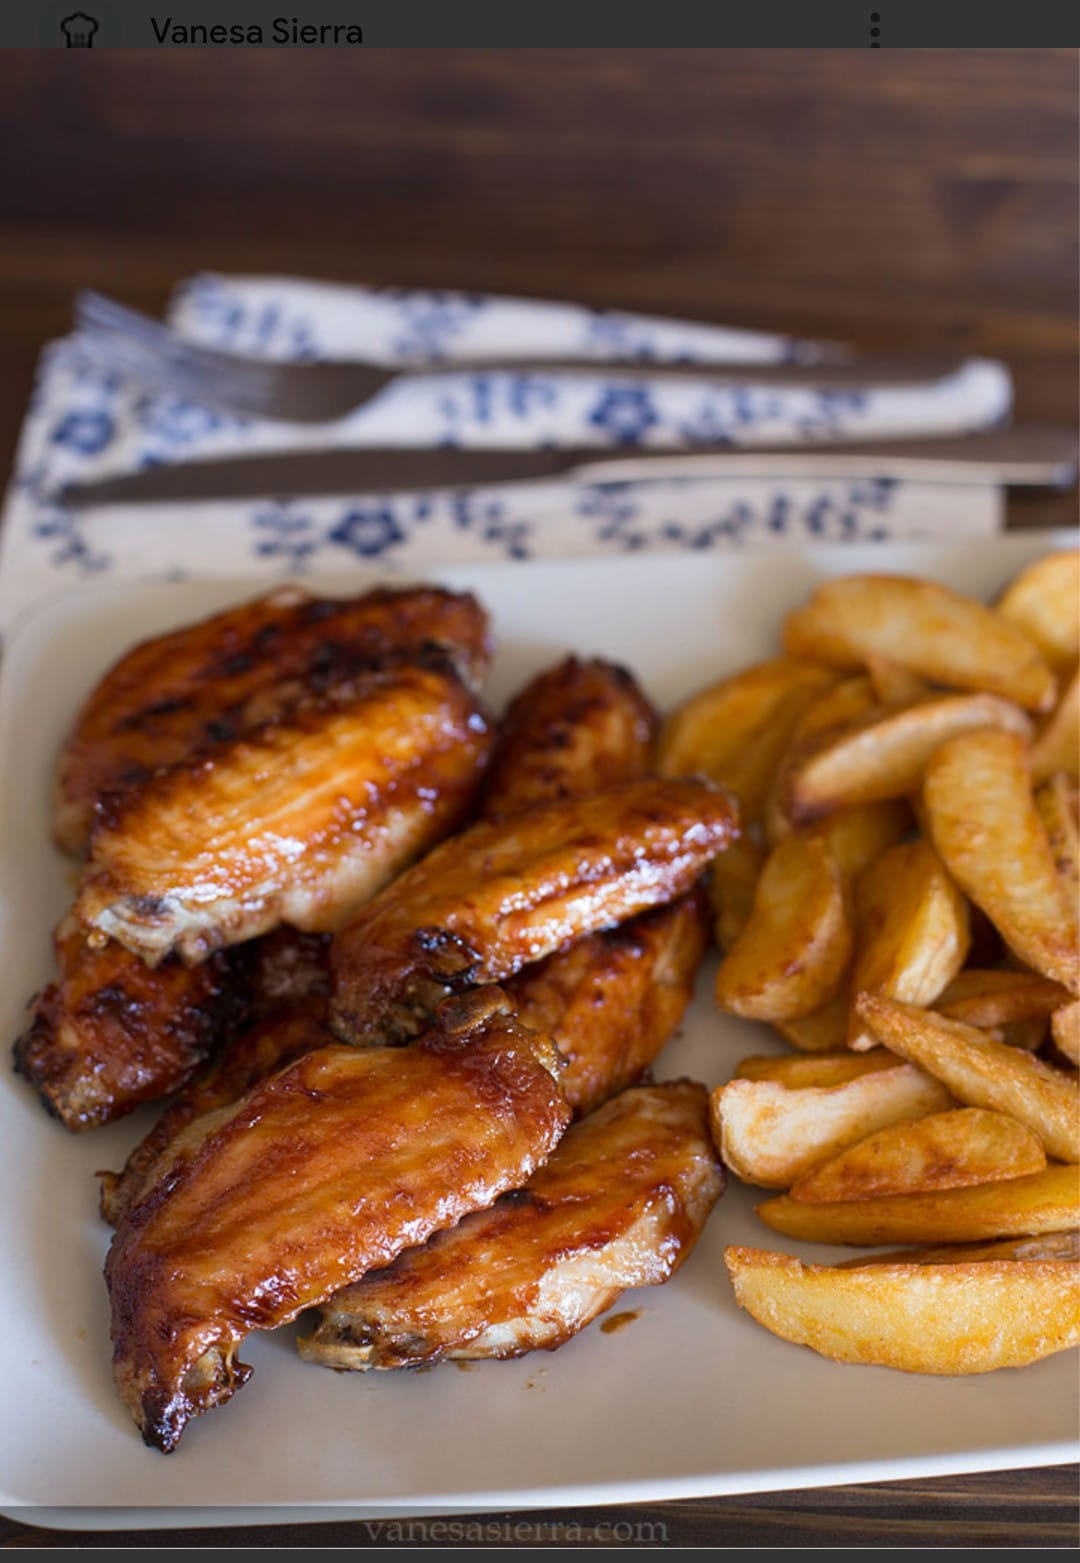
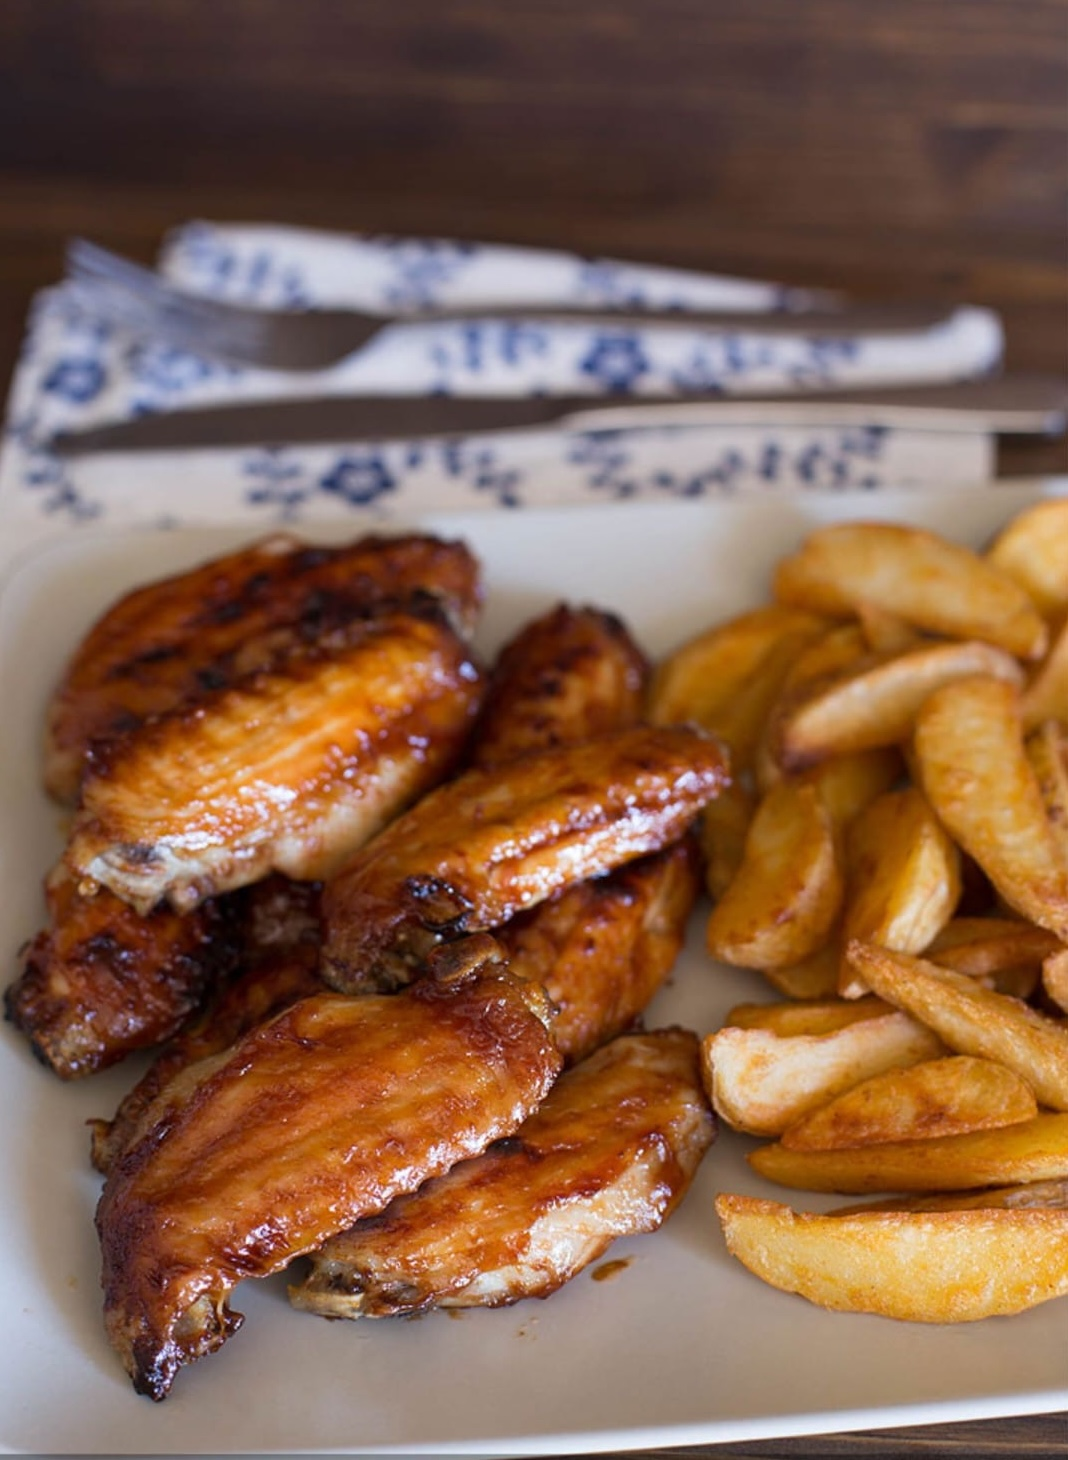
Aggiunto menú reyes

diff --git a/script.js b/script.js
@@ -2,94 +2,91 @@
 const newDishesData = {
   es: {
     title: "Nuevos platos 😋",
-    subtitle: "Descubre nuestras últimas creaciones, elaboradas con cariño cada día.",
-    badge: "Nuevo",
+    subtitle: "Descubre nuestras últimas creaciones, elaboradas con ingredientes frescos y mucho cariño.",
     dishes: [
       {
         img: "img/nuevo_plato_1.jpeg",
         name: "Alitas en barbacoa de pollo con papas fritas 😋",
-        desc: "Alitas de pollo crujientes con salsa barbacoa casera y papas fritas."
+        desc: "Alitas de pollo marinadas en salsa barbacoa, acompañadas de papas fritas crujientes."
       },
       {
         img: "img/nuevo_plato_2.jpeg",
         name: "Costilla de cerdo en barbacoa con papas bravas 😋",
-        desc: "Costilla de cerdo a la barbacoa acompañada de papas bravas caseras."
+        desc: "Costillas de cerdo a baja cocción con salsa barbacoa y papas bravas."
       },
       {
         img: "img/nuevo_plato_3.jpeg",
         name: "Codillo de cerdo con papas fritas 😋",
-        desc: "Codillo de cerdo tierno y jugoso con crujientes papas fritas."
+        desc: "Codillo de cerdo asado, servido con papas fritas."
       },
       {
         img: "img/nuevo_plato_4.jpeg",
         name: "Garbanzas con chorizo 😋",
-        desc: "Garbanzas guisadas a fuego lento con chorizo y sabores tradicionales."
+        desc: "Garbanzos guisados al estilo canario con chorizo."
       },
       {
         img: "img/nuevo_plato_5.jpeg",
         name: "Albóndigas en salsa de tomate con papas fritas 😋",
-        desc: "Albóndigas caseras en salsa de tomate con papas fritas."
+        desc: "Albóndigas caseras en salsa de tomate acompañadas de papas fritas."
       }
     ]
   },
 
   en: {
     title: "New dishes 😋",
-    subtitle: "Discover our latest creations, freshly prepared every day.",
-    badge: "New",
+    subtitle: "Discover our latest creations, prepared with fresh ingredients and lots of care.",
     dishes: [
       {
         img: "img/nuevo_plato_1.jpeg",
-        name: "BBQ chicken wings with French fries 😋",
-        desc: "Crispy chicken wings with homemade BBQ sauce and French fries."
+        name: "BBQ chicken wings with french fries 😋",
+        desc: "Marinated chicken wings in BBQ sauce, served with crispy french fries."
       },
       {
         img: "img/nuevo_plato_2.jpeg",
         name: "BBQ pork ribs with patatas bravas 😋",
-        desc: "Slow-cooked pork ribs in BBQ sauce served with patatas bravas."
+        desc: "Slow-cooked pork ribs with BBQ sauce and spicy patatas bravas."
       },
       {
         img: "img/nuevo_plato_3.jpeg",
-        name: "Pork knuckle with French fries 😋",
-        desc: "Tender pork knuckle served with crispy French fries."
+        name: "Pork knuckle with french fries 😋",
+        desc: "Roasted pork knuckle served with french fries."
       },
       {
         img: "img/nuevo_plato_4.jpeg",
         name: "Chickpeas with chorizo 😋",
-        desc: "Slow-cooked chickpeas with chorizo and traditional spices."
+        desc: "Canarian-style stewed chickpeas with chorizo."
       },
       {
         img: "img/nuevo_plato_5.jpeg",
-        name: "Meatballs in tomato sauce with French fries 😋",
-        desc: "Homemade meatballs in tomato sauce with French fries."
+        name: "Meatballs in tomato sauce with french fries 😋",
+        desc: "Homemade meatballs in tomato sauce with french fries."
       }
     ]
   },
 
   de: {
     title: "Neue Gerichte 😋",
-    subtitle: "Entdeckt unsere neuesten Kreationen, täglich frisch zubereitet.",
-    badge: "Neu",
+    subtitle: "Entdeckt unsere neuesten Kreationen, täglich frisch und mit viel Liebe zubereitet.",
     dishes: [
       {
         img: "img/nuevo_plato_1.jpeg",
         name: "Hähnchenflügel in Barbecuesauce mit Pommes 😋",
-        desc: "Knusprige Hähnchenflügel mit hausgemachter Barbecuesauce und Pommes frites."
+        desc: "Marinierte Hähnchenflügel in Barbecuesauce mit knusprigen Pommes frites."
       },
       {
         img: "img/nuevo_plato_2.jpeg",
-        name: "Schweinerippchen in Barbecuesauce mit Patatas Bravas 😋",
-        desc: "Zart geschmorte Schweinerippchen in Barbecuesauce mit Patatas Bravas."
+        name: "BBQ-Schweinerippchen mit Patatas bravas 😋",
+        desc: "Schonend gegarte Schweinerippchen in Barbecuesauce mit würzigen Patatas bravas."
       },
       {
         img: "img/nuevo_plato_3.jpeg",
-        name: "Schweinehaxe mit Pommes frites 😋",
-        desc: "Zarte, saftige Schweinehaxe mit knusprigen Pommes frites."
+        name: "Schweinehaxe mit Pommes 😋",
+        desc: "Ofengebackene Schweinehaxe, serviert mit Pommes frites."
       },
       {
         img: "img/nuevo_plato_4.jpeg",
         name: "Kichererbsen mit Chorizo 😋",
-        desc: "Langsam geschmorte Kichererbsen mit Chorizo und traditionellen Gewürzen."
+        desc: "Kanarischer Eintopf aus Kichererbsen mit Chorizo."
       },
       {
         img: "img/nuevo_plato_5.jpeg",
@@ -898,32 +895,48 @@ function renderNocheVieja(lang = "es") {
 
 function renderNewDishes(lang = "es") {
   const data = newDishesData[lang] || newDishesData.es;
+  const section = document.querySelector(".new-dishes");
+  if (!section || !data) return;
 
-  const titleEl    = document.getElementById("new-dishes-title");
-  const subtitleEl = document.getElementById("new-dishes-subtitle");
-  const gridEl     = document.getElementById("new-dishes-grid");
+  const titleEl    = section.querySelector(".new-dishes-header h2");
+  const subtitleEl = section.querySelector(".new-dishes-header p");
+  const cards      = section.querySelectorAll(".new-dish-card");
+  const badges     = section.querySelectorAll(".new-dish-badge");
 
-  if (!titleEl || !gridEl || !data) return;
+  if (titleEl)    titleEl.textContent    = data.title;
+  if (subtitleEl) subtitleEl.textContent = data.subtitle;
 
-  titleEl.textContent = data.title;
-  if (subtitleEl) {
-    subtitleEl.textContent = data.subtitle;
-  }
+  cards.forEach((card, index) => {
+    const dish = data.dishes[index];
+    if (!dish) return;
 
-  gridEl.innerHTML = "";
+    const img = card.querySelector("img");
+    const h3  = card.querySelector("h3");
+    const p   = card.querySelector("p");
 
-  data.dishes.forEach(dish => {
-    const card = document.createElement("article");
-    card.className = "new-dish-card";
-    card.innerHTML = `
-      <div class="new-dish-image-wrapper">
-        <img src="${dish.img}" alt="${dish.name}" loading="lazy">
-        <span class="new-dish-badge">${data.badge}</span>
-      </div>
-      <h3>${dish.name}</h3>
-      <p>${dish.desc}</p>
-    `;
-    gridEl.appendChild(card);
+    if (img && dish.img) {
+      img.src = dish.img;
+      img.alt = dish.name;
+    }
+    if (h3) h3.textContent = dish.name;
+    if (p)  p.textContent  = dish.desc || "";
+  });
+
+  // badge "Nuevo" / "New" / "Neu"
+  badges.forEach(badge => {
+    if (lang === "es")      badge.textContent = "Nuevo";
+    else if (lang === "en") badge.textContent = "New";
+    else if (lang === "de") badge.textContent = "Neu";
+  });
+}
+
+function renderReyes(lang = "es") {
+  const flyers = document.querySelectorAll(".reyes-flyer");
+  if (!flyers.length) return;
+
+  flyers.forEach(img => {
+    const imgLang = img.dataset.lang || "es";
+    img.classList.toggle("active", imgLang === lang);
   });
 }
 
@@ -982,6 +995,7 @@ function initPage(){
   renderNocheBuena("es");
   renderNocheVieja("es");
   renderNewDishes("es");
+  renderReyes("es");
 
   // Cambio lingua (pulsanti sotto "Galería del local")
   const langButtons = document.querySelectorAll(".lang-btn");
@@ -999,6 +1013,7 @@ function initPage(){
       renderNocheBuena(lang);
       renderNocheVieja(lang);
       renderNewDishes(lang);
+      renderReyes(lang);
     });
   });
 

diff --git a/index.html b/index.html
@@ -191,6 +191,35 @@
   </div>
 </section>
 
+<!-- SEZIONE MENÚ DE REYES -->
+<section id="menu-reyes" class="reyes-section">
+  <div class="reyes-wrapper">
+    <!-- Versione spagnola -->
+    <img
+      src="img/locandina_reyes_es.jpg"
+      alt="Menú del día de los Reyes"
+      class="reyes-flyer"
+      data-lang="es"
+    >
+
+    <!-- Versione inglese -->
+    <img
+      src="img/ING_locandina_reyes_en.jpg"
+      alt="Three Kings' Day Menu"
+      class="reyes-flyer"
+      data-lang="en"
+    >
+
+    <!-- Versione tedesca -->
+    <img
+      src="img/DE_locandina_reyes_de.jpg"
+      alt="Menü zum Dreikönigstag"
+      class="reyes-flyer"
+      data-lang="de"
+    >
+  </div>
+</section>
+
  <!-- MENU -->
   <section id="menu" class="menu-section">
     <div class="menu-header">

diff --git a/styles.css b/styles.css
@@ -886,3 +886,27 @@ body{
     height: 220px; /* un filo più alta su mobile */
   }
 }
+
+/* ===== MENÚ DE REYES (locandina) ===== */
+.reyes-section{
+  padding: 32px 18px;
+  max-width: 900px;
+  margin: 0 auto;
+}
+
+.reyes-wrapper{
+  display: flex;
+  justify-content: center;
+}
+
+.reyes-flyer{
+  display: none;          /* di base nascoste, ne mostriamo una col JS */
+  max-width: 100%;
+  border-radius: 16px;
+  box-shadow: 0 0 24px rgba(0,0,0,0.35);
+}
+
+/* quella attiva per la lingua selezionata */
+.reyes-flyer.active{
+  display: block;
+}
